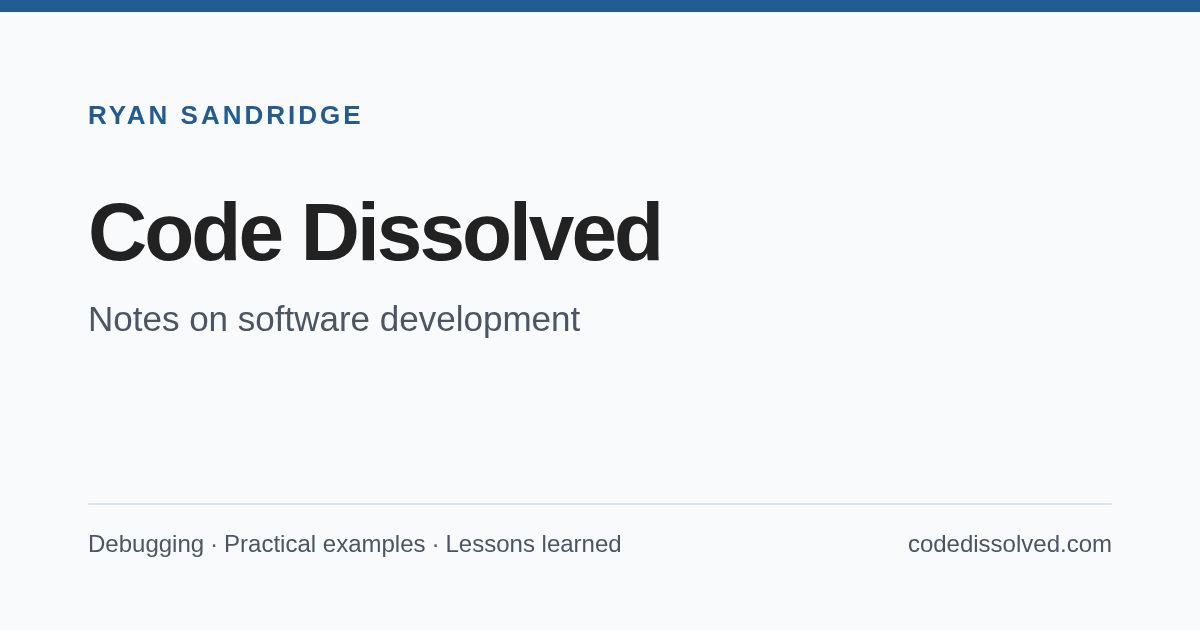
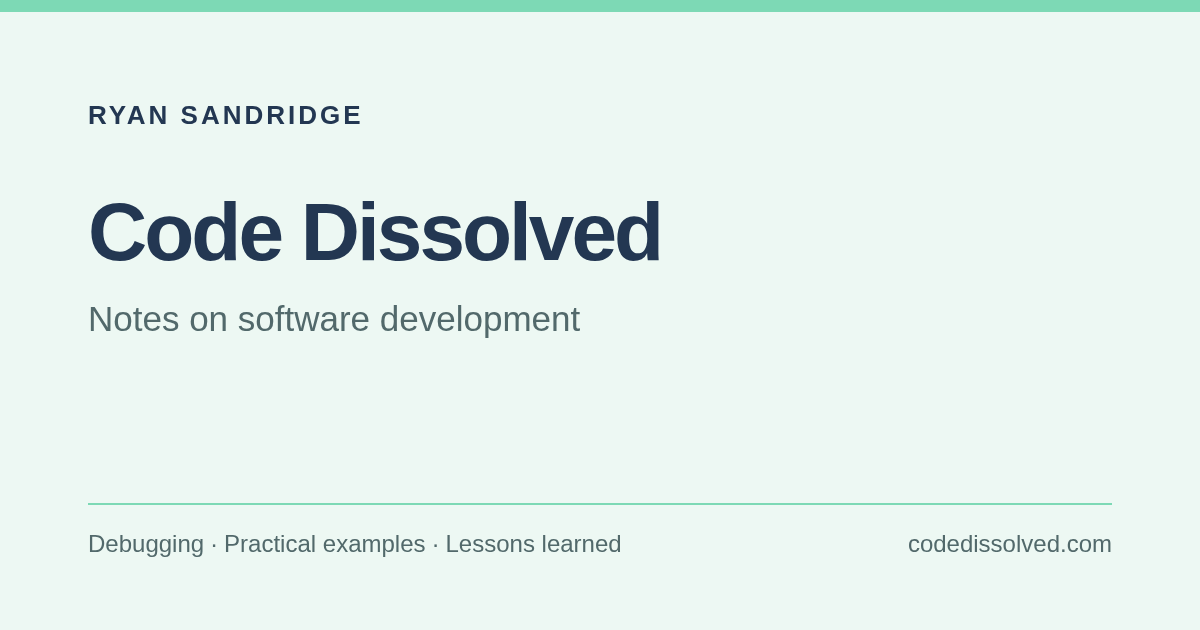
Align blog palette with extension branding

diff --git a/assets/style.scss b/assets/style.scss
@@ -22,7 +22,7 @@ html {
 body {
   background: #fff;
   font-family: system-ui, -apple-system, BlinkMacSystemFont, "Segoe UI", Roboto, Helvetica, Arial, sans-serif, "Apple Color Emoji", "Segoe UI Emoji", "Segoe UI Symbol";
-  color: #404040;
+  color: $navy;
   line-height: 1.7;
   font-weight: 400;
   font-size: 18px;
@@ -69,7 +69,7 @@ h2 {
 	    vertical-align: middle;
 	    width: 46px;
 	    height: 1px;
-	    background: rgb(192, 211, 218);
+	    background: $mint;
 	    margin: 0px 30px;
 	}
 }
@@ -80,7 +80,7 @@ h3 {
 
 h4 {
   font-size: 18px;
-  color: #222;
+  color: $navy;
 }
 
 p {
@@ -92,26 +92,26 @@ table {
 }
 
 table tr {
-	border-top: 1px solid #cccccc;
+	border-top: 1px solid $border;
 	background-color: white;
 	margin: 0;
 	padding: 0;
 }
 
 table tr:nth-child(2n) {
-	background-color: #f8f8f8;
+	background-color: $mintTint;
 }
 
 table tr th {
 	font-weight: bold;
-	border: 1px solid #cccccc;
+	border: 1px solid $border;
 	text-align: left;
 	margin: 0;
 	padding: 6px 13px;
 }
 
 table tr td {
-	border: 1px solid #cccccc;
+	border: 1px solid $border;
 	text-align: left;
 	margin: 0;
 	padding: 6px 13px;
@@ -143,25 +143,25 @@ table tr td :last-child {
   padding: 12px 20px;
   margin: 8px 0;
   display: inline-block;
-  border: 1px solid #ccc;
+  border: 1px solid $gray;
   border-radius: 4px;
   box-sizing: border-box;
   font-size: 18px;
-  background-color: #fff3ff;
+  background-color: $mintTint;
 }
 
 .share-box {
   font-weight: bold;
-  color: #222;
+  color: $navy;
 }
 
 
 a {
-  color: $blue;
+  color: $navy;
   text-decoration: none;
 	cursor: pointer;
   &:hover, &:active {
-    color: $blue;
+    color: $teal;
   }
 }
 
@@ -251,7 +251,7 @@ p > img {
   flex-wrap: wrap;
   gap: 20px;
   padding: 28px 0;
-  border-bottom: 1px solid $lightGray;
+  border-bottom: 1px solid $border;
 
   @include mobile {
     flex-direction: column;
@@ -300,7 +300,7 @@ nav {
 
 .posts > .post {
   padding-bottom: 2em;
-  border-bottom: 1px solid $lightGray;
+  border-bottom: 1px solid $border;
 }
 
 .posts > .post:last-child {
@@ -311,12 +311,12 @@ nav {
 .post {
   blockquote {
     margin: 1.8em .8em;
-    /*border-left: 2px solid $gray;*/
+    border-left: 4px solid $mint;
     padding: 0.1em 1em;
     color: $gray;
     font-size: 22px;
     font-style: italic;
-    background-color: #ede1ff;
+    background-color: $mintTint;
   }
 
   .comments {
@@ -352,7 +352,7 @@ footer {
 }
 
 #bar {
-    background: $blue;
+    background: linear-gradient(90deg, $navy 0%, $navy 70%, $mint 70%, $mint 100%);
     height: 5px;
     background-size: cover;
     background-position: left 60%;
@@ -383,19 +383,19 @@ footer {
 
 .author_title{
   text-align: center;
-  color: #626970;
+  color: $gray;
   letter-spacing: 2px;
 }
 
 .post_date{
   text-align: center;
-  color: #626970;
+  color: $gray;
 }
 
 
 // Keyboard navigation and accessible text.
 a:focus-visible, input:focus-visible {
-  outline: 3px solid #245b91;
+  outline: 3px solid $teal;
   outline-offset: 4px;
 }
 .skip-link {
@@ -432,13 +432,14 @@ img { height: auto; }
   font-size: 14px;
   padding: 2px 12px;
   margin: 3px;
-  background: #276b2b;
+  background: $navy;
   border-radius: 20px;
   color: #fff;
 }
+.post-tags a:hover, .post-tags a:active { background: $mint; color: $navy; }
 .highlight { max-width: 100%; }
 .entry > pre { overflow-x: auto; }
-.comments { border-top: 1px solid #ddd; padding-top: 1em; margin-top: 2em; }
+.comments { border-top: 1px solid $border; padding-top: 1em; margin-top: 2em; }
 .comments h2, .archive-group h2, .archive-item h3, #results-container h2 {
   text-align: left;
 }

diff --git a/scripts/social-card.html b/scripts/social-card.html
@@ -3,10 +3,10 @@
 <style>
 * { box-sizing: border-box; }
 html, body { margin: 0; width: 1200px; height: 630px; }
-body { background: #f8fafc; color: #222; font-family: Arial, sans-serif; padding: 88px; border-top: 12px solid #245b91; }
-.brand { color: #245b91; font-size: 26px; font-weight: 700; letter-spacing: 3px; margin: 0 0 58px; }
+body { background: #edf8f3; color: #233752; font-family: Arial, sans-serif; padding: 88px; border-top: 12px solid #7dd9b5; }
+.brand { color: #233752; font-size: 26px; font-weight: 700; letter-spacing: 3px; margin: 0 0 58px; }
 h1 { font-size: 82px; line-height: 1.05; margin: 0 0 24px; letter-spacing: -3px; }
-.description { font-size: 35px; color: #4b5563; margin: 0; }
-footer { position: absolute; bottom: 72px; left: 88px; right: 88px; border-top: 2px solid #dce3ec; padding-top: 25px; font-size: 24px; display: flex; justify-content: space-between; color: #4b5563; }
+.description { font-size: 35px; color: #52696b; margin: 0; }
+footer { position: absolute; bottom: 72px; left: 88px; right: 88px; border-top: 2px solid #7dd9b5; padding-top: 25px; font-size: 24px; display: flex; justify-content: space-between; color: #52696b; }
 </style></head>
 <body><p class="brand">RYAN SANDRIDGE</p><h1>Code Dissolved</h1><p class="description">Notes on software development</p><footer><span>Debugging · Practical examples · Lessons learned</span><span>codedissolved.com</span></footer></body></html>

diff --git a/_sass/_darcula.scss b/_sass/_darcula.scss
@@ -1,5 +1,7 @@
+@use "variables" as *;
+
 .highlight {
-    background-color: #1e1c3f;
+    background-color: $navy;
     padding: 7px 7px 7px 10px;
     overflow: auto;
     font-size: 95%;
@@ -11,13 +13,13 @@ code {
 }
 
 .highlighter-rouge {
-    background-color: #FAFAFA;
-    color: #a12c22;
+    background-color: $mintTint;
+    color: $teal;
     font-size: 16px;
 }
 
 .highlight .hll { background-color: #f1fa8c }
-.highlight  { background: #282a36; color: #f8f8f2 }
+.highlight  { background: $navy; color: #f8f8f2 }
 .highlight .c { color: #a0acd0 } /* Comment */
 .highlight .err { color: #f8f8f2 } /* Error */
 .highlight .g { color: #f8f8f2 } /* Generic */

diff --git a/_sass/_variables.scss b/_sass/_variables.scss
@@ -3,15 +3,19 @@
 // VARIABLES
 //
 
-// Colors
-$blue: #245b91;
+// Shared Backstash / Tabometer icon palette.
+$navy: #233752;
+$mint: #7dd9b5;
+$mintTint: #edf8f3;
+$teal: #115e59;
+$border: #d7e2df;
 
 // Grays
 $black: #000;
-$darkerGray: #222;
-$darkGray: #333;
-$gray: #666;
-$lightGray: #eee;
+$darkerGray: $navy;
+$darkGray: $navy;
+$gray: #52696b;
+$lightGray: $mintTint;
 $white: #fff;
 
 // Font stacks

diff --git a/AGENTS.md b/AGENTS.md
@@ -127,6 +127,8 @@ links or a contact service without discussing that choice with him.
 Ryan does not want an avatar or headshot to be a requirement. Use the text masthead
 and typographic sharing card as the current visual identity; do not add a face or
 replacement avatar without a new direction from him.
+Use the extensions' shared navy (`#233752`) and mint (`#7DD9B5`) palette for the
+site and sharing card. Keep mint accents readable with dark text.
 The current About page and description are a factual starting point, not finalized
 brand positioning. Clarify audience and professional goals before making stronger
 claims or commitments. Keep dated historical context in the existing posts rather than implying
